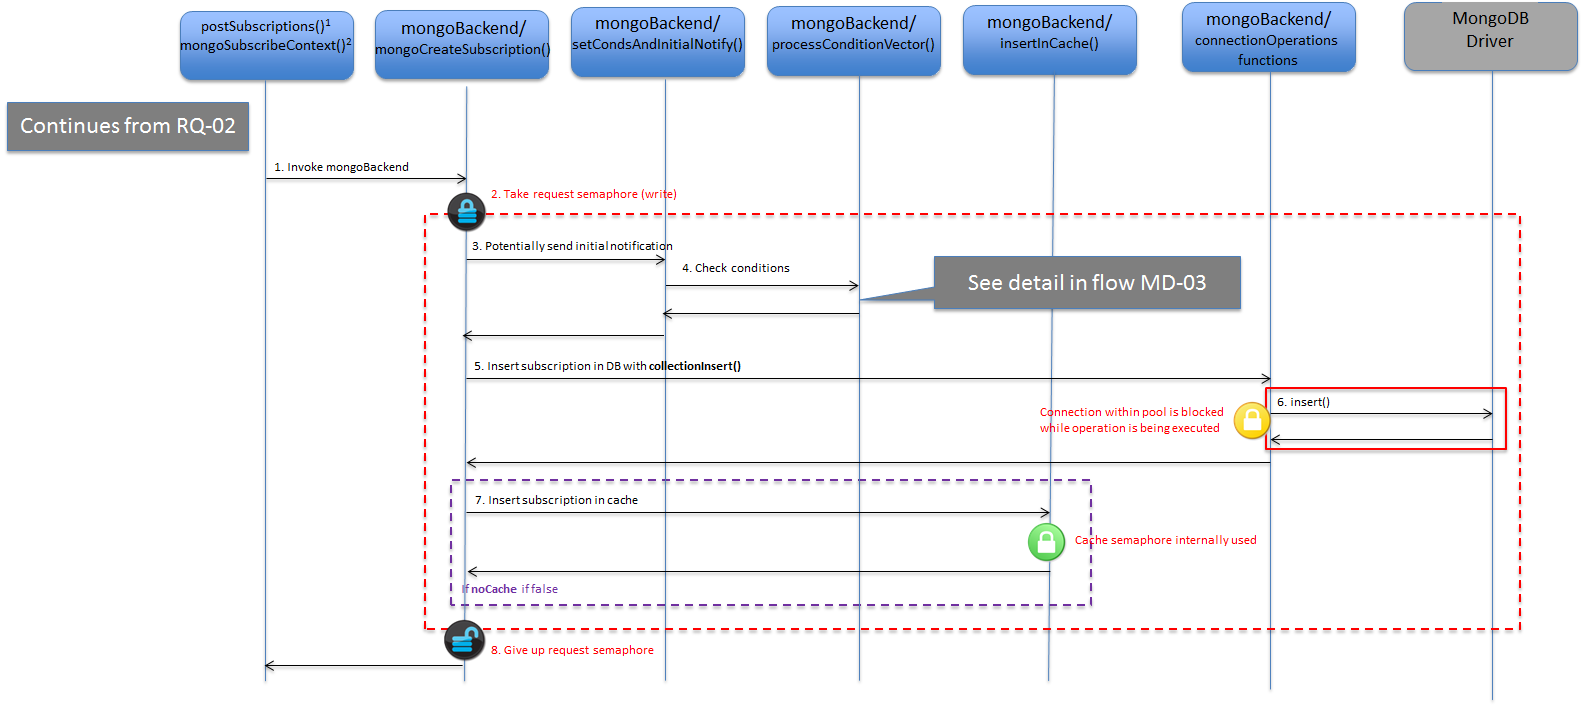
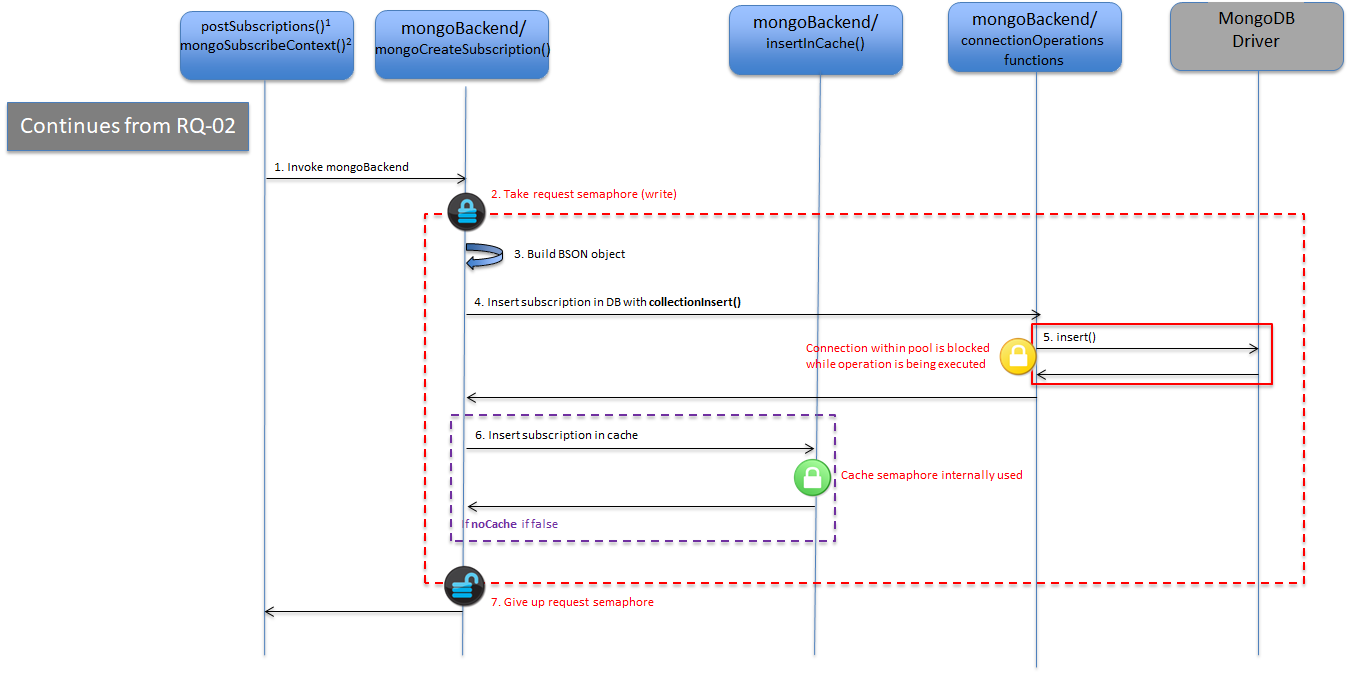
FIX devel manual after initial notif removal

diff --git a/src/lib/mongoBackend/mongoUpdateSubscription.cpp b/src/lib/mongoBackend/mongoUpdateSubscription.cpp
@@ -835,7 +835,7 @@ std::string mongoUpdateSubscription
   // last* field take into account potenatially newer information in the cache
   setLastNotification(subOrig, subCacheP, &b);
   setLastFailure(subOrig, subCacheP, &b);
-  setLastSuccess(subOrig, subCacheP, &b);  
+  setLastSuccess(subOrig, subCacheP, &b);
 
   orion::BSONObj doc = b.obj();
 

diff --git a/doc/manuals/devel/mongoBackend.md b/doc/manuals/devel/mongoBackend.md
@@ -21,7 +21,6 @@
 	* [`mongoInit()`](#mongoinit)
 	* [`entitiesQuery()`](#entitiesquery)
 	* [`registrationsQuery()`](#registrationsquery) 
-	* [`processConditionVector()`](#processconditionvector)
 
 ## Introduction
 
@@ -340,11 +339,10 @@ _MB-11: mongoCreateSubscription_
 
 * `mongoCreateSubscription()` is invoked from a service routine (step 1). This can be from either `postSubscriptions()` (which resides in `lib/serviceRoutinesV2/postSubscriptions.cpp`) or `mongoSubscribeContext()` (which resides in `lib/mongoBackend/mongoSubscribeContext.cpp`).
 * Depending on `-reqMutexPolicy`, the request semaphore may be taken (write mode) (step 2). See [this document for details](semaphores.md#mongo-request-semaphore).  
-* This function builds a BSON object that will be at the end the one to be persisted in the database, using different `set*()` functions (`setExpiration()`, `setHttpInfo()`, etc.). One of these functions, namely `setCondsAndInitialNotify()`, has the side effect of potentially sending initial notifications corresponding to the subscription being created (called in step 3).
-* `processConditionVector()` is called to actually send notifications (step 4), whose details are described as part of the `MongoGlobal` module section (see diagram [MD-03](#flow-md-03)).
-* The BSON object corresponding to the new subscription is inserted in the database using `collectionInsert()` in the `connectionOperations` module (steps 5 and 6).
-* If the subscription cache is enabled  (i.e. `noCache` set to `false`), the new subscription is inserted in the subscription cache (step 7). `insertInCache()` uses the subscription cache semaphore internally (see [this document for details](semaphores.md#subscription-cache-semaphore)).
-* If the request semaphore was taken in step 2, then it is released before returning (step 8). 
+* This function builds a BSON object that will be at the end the one to be persisted in the database, using different `set*()` functions (`setExpiration()`, `setHttpInfo()`, etc.) (step 3).
+* The BSON object corresponding to the new subscription is inserted in the database using `collectionInsert()` in the `connectionOperations` module (steps 4 and 5).
+* If the subscription cache is enabled  (i.e. `noCache` set to `false`), the new subscription is inserted in the subscription cache (step 6). `insertInCache()` uses the subscription cache semaphore internally (see [this document for details](semaphores.md#subscription-cache-semaphore)).
+* If the request semaphore was taken in step 2, then it is released before returning (step 7).
 
 Note that potential notifications are sent before inserting the subscription in the database/cache, so the correct information regarding last notification times and count is taken into account.
 
@@ -365,12 +363,10 @@ _MB-12: mongoUpdateSubscription_
 * Depending on `-reqMutexPolicy`, the request semaphore may be taken (write mode) (step 2). See [this document for details](semaphores.md#mongo-request-semaphore). 
 * The subscription to be updated is retrieved from the database using `collectionFindOne()` in the `connectionOperations` module (steps 3 and 4).
 * If the subscription cache is enabled (i.e. `noCache` set to `false`) the subscription cache object is also retrieved from the subscription cache using `subCacheItemLoopkup()` in the `cache` module (step 5).
-* The BSON object of the final subscription is built, based on the BSON object of the original subscription, using different `set*()` functions similar to the ones in the create subscription case (`setExpiration()`, `setHttpInfo()`, etc.). One of these functions, namely `setCondsAndInitialNotify()`, has the "side effect" of potentially sending initial notifications corresponding to the subscription being updated (called in step 6).
-* This function in sequence uses `processConditionVector()` to actually send notifications (step 7), whose details are described as part of the `MongoGlobal` module section (see diagram [MD-03](#flow-md-03)).
-* The `update`, `count`. and `lastNotification` fields are updated in the subscription cache (step 9). This operation is protected by the subscription cache semaphore (see [this document for details](semaphores.md#subscription-cache-semaphore)) which is taken and released in steps 8 and 10 receptively.
-* The BSON object corresponding to the updated subscription is updated in the database using `collectionUpdate()` in the `connectionOperations` module (steps 11 and 12).
-* In case the subscription cache is enabled  (i.e. `noCache` set to `false`) the new subscription is updated in the subscription cache (step 13). `updatetInCache()` uses the subscription cache semaphore internally.
-* If the request semaphore was taken in step 2, then it is released before returning (step 14). 
+* The BSON object of the final subscription is built, based on the BSON object of the original subscription, using different `set*()` functions similar to the ones in the create subscription case (`setExpiration()`, `setHttpInfo()`, etc.). (step 6).
+* The BSON object corresponding to the updated subscription is updated in the database using `collectionUpdate()` in the `connectionOperations` module (steps 7 and 8).
+* In case the subscription cache is enabled  (i.e. `noCache` set to `false`) the new subscription is updated in the subscription cache (step 9). `updatetInCache()` uses the subscription cache semaphore internally.
+* If the request semaphore was taken in step 2, then it is released before returning (step 10).
 
 Note that potential notifications are sent before updating the subscription in the database/cache, so the correct information regarding last notification times and count is taken into account.
 
@@ -630,10 +626,7 @@ This function basically searches for entities in the database (`entities` collec
 
 `entitiesQuery()` relies on `collectionRangedQuery()` in the `connectionOperations` module in order to do the actual query in the database. After the query in the database, a part of the function annotates results in order to help in the Context Providers search done by the calling function, using the `found` attribute flag (see details in the source code). The result is then saved in a `ContextElementResponseVector` object, as output parameters.
 
-The function is called from the following places:
-
-* `mongoQueryContext()` (in the `mongoQuery` module), as the "core" of the query operation.
-* `processOnChangeConditionForSubscription()`, to search the entities to "fill" initial notifications during context subscription creation/update.
+The function is called from `mongoQueryContext()` (in the `mongoQuery` module), as the "core" of the query operation.
 
 [Top](#top)
 
@@ -648,28 +641,3 @@ It is used by several functions:
 * `searchContextProviders()` in the `MongoCommonUpdate` module, in order to locate Context Providers for forwarding of the update. Note that the forwarding is not done within the **mongoBackend** library, but from the calling **serviceRoutine**.
 
 [Top](#top)
-
-#### `processConditionVector()`
-
-This function is called during context subscription creation/update and possibly sends an initial notification associated to the subscription.
-
-<a name="flow-md-03"></a>
-![`processConditionVector()` function detail](images/Flow-MD-03.png)
-
-_MD-03: `processConditionVector()` function detail_
-
-* `processConditionVector()` (step 1) is invoked by mongoBackend functions. See diagrams [MB-11](#flow-mb-11) and [MB-12](#flow-mb-12).
-* A loop iterates over each individual condition in the `NotifyConditionVector` vector (although most of the times this vector has only one item):
-   * `processOnChangeConditionForSubscription()` is called to process the individual condition (step 2).
-   * `entitiesQuery()` is called to get the entities to be included in the notification (step 3), which in sequence relies on `collectionRangedQuery()` in the `connectionOperations` module in order to get the entities from the database (steps 4 and 5).
-   * `pruneContextElements()` is called in order to remove not found elements, as it makes no sense including them in the notification (step 6).
-   * If, after pruning, there is any entity to send, steps 7 to 11 are executed.
-	   * In the case of conditions for particular attributes (i.e. not empty condition), a second lookup is done using `entitiesQuery()` (steps 7, 8 and 9, plus pruning in step 10).
-	   * Notifications are sent (step 11) using the `Notifier` object (from [ngsiNotify](sourceCode.md#srclibngsinotify) library) in order to actually send the notification (step 3). The detail is provided in diagrams [NF-01](sourceCode.md#flow-nf-01) or [NF-03](sourceCode.md#flow-nf-03). In the case of conditions for particular attributes, notifications are sent only if the previous check was ok. In the case of all-attributes notifications (i.e. empty condition) notifications are always sent.
-
-Note that `processOnChangeConditionForSubscription()` has a "sibling" function named `processOnChangeConditionForUpdateContext()` for non-initial notifications (see diagram [MD-01](#flow-md-01)).
-
-[Top](#top)
-
-
-

diff --git a/test/flowControlTest/README.md b/test/flowControlTest/README.md
@@ -56,10 +56,9 @@ EOF
 ```
 
 Create 1 subscription for entity E1. Thus, each time E1 gets updated a notification will be sent (1:1 relationship).
-Note we use `skipInitialNotification` to avoid a "noisy" initial notification to be sent.
 
 ```
-curl -v localhost:1026/v2/subscriptions?options=skipInitialNotification -s -S -H 'Content-Type: application/json' -d @- <<EOF
+curl -v localhost:1026/v2/subscriptions -s -S -H 'Content-Type: application/json' -d @- <<EOF
 {
   "description": "E1 subscription",
   "subject": {
@@ -80,10 +79,9 @@ EOF
 ```
 
 Create 10 subscriptions for entity E10. Thus, each time E10 gets updated ten notifications will be sent (1:10 relationship).
-Note we use `skipInitialNotification` to avoid a "noisy" initial notification to be sent.
 
 ```
-curl -v localhost:1026/v2/subscriptions?options=skipInitialNotification -s -S -H 'Content-Type: application/json' -d @- <<EOF
+curl -v localhost:1026/v2/subscriptions -s -S -H 'Content-Type: application/json' -d @- <<EOF
 {
   "description": "E10 subscription 1",
   "subject": {
@@ -102,7 +100,7 @@ curl -v localhost:1026/v2/subscriptions?options=skipInitialNotification -s -S -H
 }
 EOF
 
-curl -v localhost:1026/v2/subscriptions?options=skipInitialNotification -s -S -H 'Content-Type: application/json' -d @- <<EOF
+curl -v localhost:1026/v2/subscriptions -s -S -H 'Content-Type: application/json' -d @- <<EOF
 {
   "description": "E10 subscription 2",
   "subject": {
@@ -121,7 +119,7 @@ curl -v localhost:1026/v2/subscriptions?options=skipInitialNotification -s -S -H
 }
 EOF
 
-curl -v localhost:1026/v2/subscriptions?options=skipInitialNotification -s -S -H 'Content-Type: application/json' -d @- <<EOF
+curl -v localhost:1026/v2/subscriptions -s -S -H 'Content-Type: application/json' -d @- <<EOF
 {
   "description": "E10 subscription 3",
   "subject": {
@@ -140,7 +138,7 @@ curl -v localhost:1026/v2/subscriptions?options=skipInitialNotification -s -S -H
 }
 EOF
 
-curl -v localhost:1026/v2/subscriptions?options=skipInitialNotification -s -S -H 'Content-Type: application/json' -d @- <<EOF
+curl -v localhost:1026/v2/subscriptions -s -S -H 'Content-Type: application/json' -d @- <<EOF
 {
   "description": "E10 subscription 4",
   "subject": {
@@ -159,7 +157,7 @@ curl -v localhost:1026/v2/subscriptions?options=skipInitialNotification -s -S -H
 }
 EOF
 
-curl -v localhost:1026/v2/subscriptions?options=skipInitialNotification -s -S -H 'Content-Type: application/json' -d @- <<EOF
+curl -v localhost:1026/v2/subscriptions -s -S -H 'Content-Type: application/json' -d @- <<EOF
 {
   "description": "E10 subscription 5",
   "subject": {
@@ -178,7 +176,7 @@ curl -v localhost:1026/v2/subscriptions?options=skipInitialNotification -s -S -H
 }
 EOF
 
-curl -v localhost:1026/v2/subscriptions?options=skipInitialNotification -s -S -H 'Content-Type: application/json' -d @- <<EOF
+curl -v localhost:1026/v2/subscriptions -s -S -H 'Content-Type: application/json' -d @- <<EOF
 {
   "description": "E10 subscription 6",
   "subject": {
@@ -197,7 +195,7 @@ curl -v localhost:1026/v2/subscriptions?options=skipInitialNotification -s -S -H
 }
 EOF
 
-curl -v localhost:1026/v2/subscriptions?options=skipInitialNotification -s -S -H 'Content-Type: application/json' -d @- <<EOF
+curl -v localhost:1026/v2/subscriptions -s -S -H 'Content-Type: application/json' -d @- <<EOF
 {
   "description": "E10 subscription 7",
   "subject": {
@@ -216,7 +214,7 @@ curl -v localhost:1026/v2/subscriptions?options=skipInitialNotification -s -S -H
 }
 EOF
 
-curl -v localhost:1026/v2/subscriptions?options=skipInitialNotification -s -S -H 'Content-Type: application/json' -d @- <<EOF
+curl -v localhost:1026/v2/subscriptions -s -S -H 'Content-Type: application/json' -d @- <<EOF
 {
   "description": "E10 subscription 8",
   "subject": {
@@ -235,7 +233,7 @@ curl -v localhost:1026/v2/subscriptions?options=skipInitialNotification -s -S -H
 }
 EOF
 
-curl -v localhost:1026/v2/subscriptions?options=skipInitialNotification -s -S -H 'Content-Type: application/json' -d @- <<EOF
+curl -v localhost:1026/v2/subscriptions -s -S -H 'Content-Type: application/json' -d @- <<EOF
 {
   "description": "E10 subscription 9",
   "subject": {
@@ -254,7 +252,7 @@ curl -v localhost:1026/v2/subscriptions?options=skipInitialNotification -s -S -H
 }
 EOF
 
-curl -v localhost:1026/v2/subscriptions?options=skipInitialNotification -s -S -H 'Content-Type: application/json' -d @- <<EOF
+curl -v localhost:1026/v2/subscriptions -s -S -H 'Content-Type: application/json' -d @- <<EOF
 {
   "description": "E10 subscription 10",
   "subject": {

diff --git a/doc/manuals/devel/sourceCode.md b/doc/manuals/devel/sourceCode.md
@@ -450,7 +450,7 @@ Actually, a function from the [**rest** library](#srclibrest) is used: `httpRequ
 
 Using the [CLI parameter](../admin/cli.md) `-notificationMode`, Orion can be started with a thread pool for sending of notifications (`-notificationMode threadpool`). If so, during Orion startup, a pool of threads is created and these threads await new items in the notification queue and when an item becomes present, it is taken from the queue and processed, sending the notification in question. If the thread pool is not used, then a thread will be created for each notification to be sent (default value of `-notificationMode` is "transient", which gives this behaviour). More information on notification modes can be found in [this section of the Orion administration manual](../admin/perf_tuning.md#notification-modes-and-performance).
 
-The invoking function in the case of notification due to attribute update/creation is `processOnChangeConditionForUpdateContext()` (see the diagram [MD-01](mongoBackend.md#flow-md-01)) and the invoking function in the case of notification due to subscription creation/update (what is called "initial notification" is `processOnChangeConditionForUpdateContext()` (see the diagram [MD-03](mongoBackend.md#flow-md-03)).
+This module is always invoked from `processOnChangeConditionForUpdateContext()` due to attribute update/creation (see the diagram [MD-01](mongoBackend.md#flow-md-01)).
 
 The following two images demonstrate the program flow for context entity notifications without and with thread pool.
 

diff --git a/test/perServiceNotifQueuesTest/README.md b/test/perServiceNotifQueuesTest/README.md
@@ -20,7 +20,7 @@ We set up three subscriptions, for `serv1`, `serv2` and `serv3`. We use special 
 that nerver get a response, in order to see the effect of a "blocked" worker.
 
 ```
-curl -v localhost:1026/v2/subscriptions?options=skipInitialNotification -s -S -H 'fiware-service: serv1' -H 'Content-Type: application/json' -d @- <<EOF
+curl -v localhost:1026/v2/subscriptions -s -S -H 'fiware-service: serv1' -H 'Content-Type: application/json' -d @- <<EOF
 {
   "description": "serv1 subscriptions",
   "subject": {
@@ -39,7 +39,7 @@ curl -v localhost:1026/v2/subscriptions?options=skipInitialNotification -s -S -H
 }
 EOF
 
-curl -v localhost:1026/v2/subscriptions?options=skipInitialNotification -s -S -H 'fiware-service: serv2' -H 'Content-Type: application/json' -d @- <<EOF
+curl -v localhost:1026/v2/subscriptions -s -S -H 'fiware-service: serv2' -H 'Content-Type: application/json' -d @- <<EOF
 {
   "description": "serv2 subscriptions",
   "subject": {
@@ -58,7 +58,7 @@ curl -v localhost:1026/v2/subscriptions?options=skipInitialNotification -s -S -H
 }
 EOF
 
-curl -v localhost:1026/v2/subscriptions?options=skipInitialNotification -s -S -H 'fiware-service: serv3' -H 'Content-Type: application/json' -d @- <<EOF
+curl -v localhost:1026/v2/subscriptions -s -S -H 'fiware-service: serv3' -H 'Content-Type: application/json' -d @- <<EOF
 {
   "description": "serv3 subscriptions",
   "subject": {

diff --git a/doc/manuals/devel/flowsIndex.md b/doc/manuals/devel/flowsIndex.md
@@ -70,10 +70,8 @@ Related to mongoBackend logic (MB and MD prefixes):
 	* Continues from RQ-02
 * [MB-11: mongoCreateSubscription](mongoBackend.md#flow-mb-11)
 	* Continues from RQ-02
-	* Continues in MD-03
 * [MB-12: mongoUpdateSubscription](mongoBackend.md#flow-mb-12)
 	* Continues from RQ-02
-	* Continues in MD-03 
 * [MB-13: mongoGetSubscription](mongoBackend.md#flow-mb-13)
 	* Continues from RQ-02
 * [MB-14: mongoListSubscriptions](mongoBackend.md#flow-mb-14)
@@ -105,16 +103,13 @@ Related to mongoBackend logic (MB and MD prefixes):
 	* Continues in NF-01 or NF-03  
 * [MD-02: `searchContextProviders()` function detail](mongoBackend.md#flow-md-02)
 	* Continues from MB-01, MB-02, MB-03 or MB-05
-* [MD-03: `processConditionVector()` function detail](mongoBackend.md#flow-md-03)
-	* Continues from MB-11 or MB-12
-	* Continues in NF-01 or NF-03
 
 Related to notifications (NF prefix):
 
 * [NF-01: Notification on entity-attribute update/creation without thread pool](sourceCode.md#flow-nf-01)
-	* Continues from MD-01 or MD-03
+  * Continues from MD-01
 * [NF-03: Notification on entity-attribute update/creation with thread pool](sourceCode.md#flow-nf-03)
-	* Continues from MD-01 or MD-03
+  * Continues from MD-01
 
 Related to the subscription cache (SC prefix):
 
